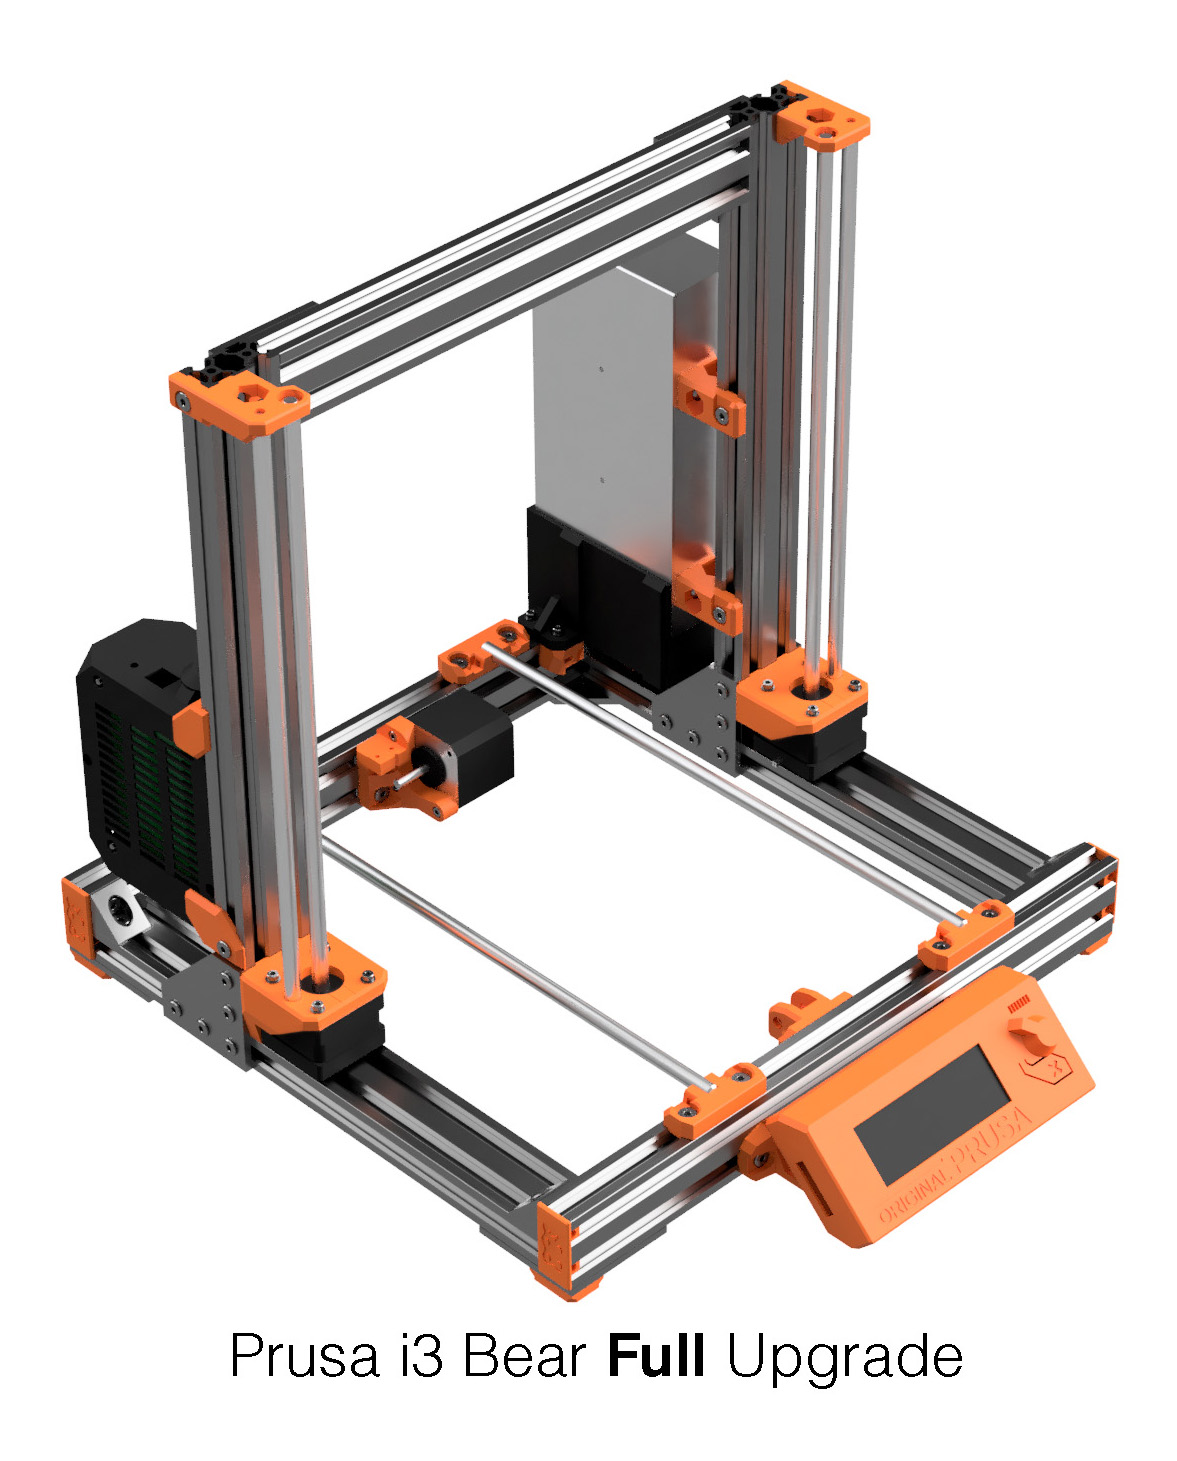
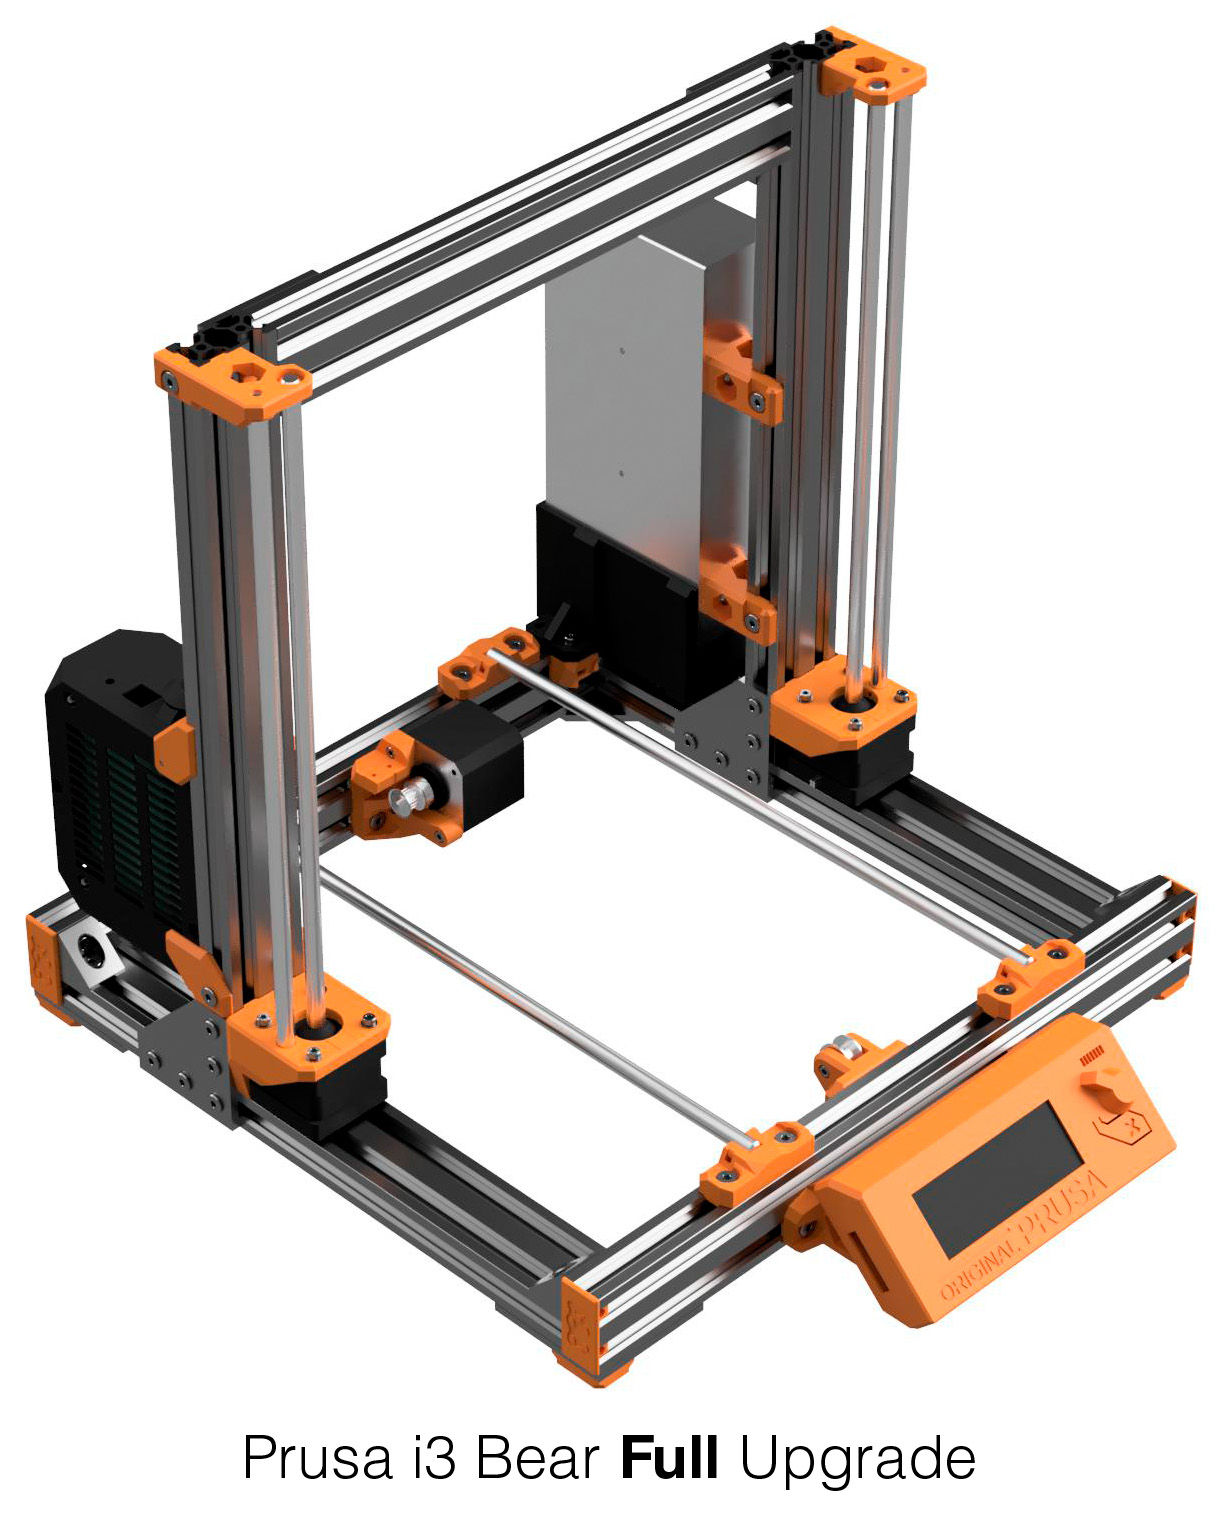
update title images

Changed region(s): [[0.0, 0.0, 0.9788, 0.9856]]

diff --git a/README.md b/README.md
@@ -1,6 +1,6 @@
 # Prusa i3 Bear Upgrade
 
-![Prusa i3 Bear Full and Half Upgrade Left](img/half_and_full_morphing.jpg)
+![Prusa i3 Bear Full and Half Upgrade Left](img/half_and_full_morphing_1024px.jpg)
 
 
 ## Introduction
@@ -40,7 +40,7 @@ The Prusa i3 Bear upgrade is proposed in two versions: full or half upgrade.
 * [Half upgrade](half_upgrade/) : upgrade your MK2/MK2s/MK2.5 frame to MK3 type
 * [Full upgrade](full_upgrade/) : has a redesigned and stronger Z axis for all MK2 and MK3 printers but is more expensive
 
-[<img src="img/half_title.jpg" width="403"/>](half_upgrade/) &nbsp;&nbsp;&nbsp; [<img src="img/full_title.jpg" width="462"/>](full_upgrade/)
+[<img src="img/half_title_800px.jpg" width="403"/>](half_upgrade/) &nbsp;&nbsp;&nbsp; [<img src="img/full_main_800px.jpg" width="462"/>](full_upgrade/)
 
 Here is a comparison table to help you choose :
 
@@ -59,7 +59,7 @@ Here is a comparison table to help you choose :
 
 Half upgrade use the same v-slots and printed part for MK2(s) and MK2.5. However, the full upgrade has 3 different versions, one for MK2(s), one for MK2.5 and another one for MK3. You can discover the difference in the [full upgrade page](full_upgrade/).
 
-![Prusa i3 Bear Full Upgrade All Versions](img/all_versions.jpg)
+![Prusa i3 Bear Full Upgrade All Versions](img/all_versions_800px.jpg)
 
 Several printed parts are shared between all these versions. This makes easier to move from half to full upgrade, or full upgrade MK2 to full upgrade MK3.
 
